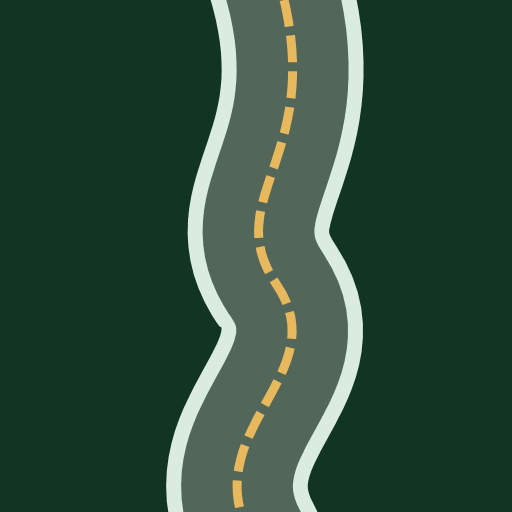
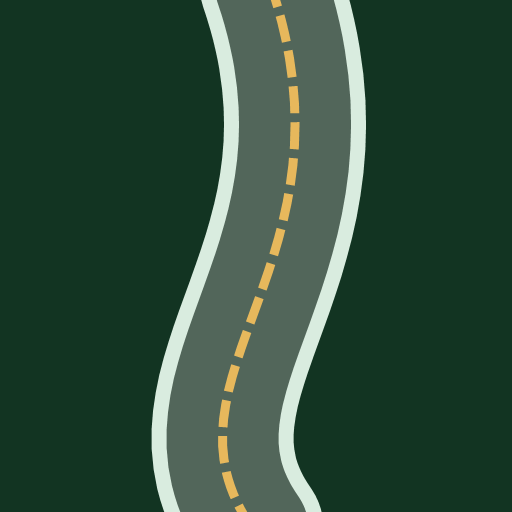
actualizaciones de pwa

Changed region(s): [[0.2812, 0.0, 0.7188, 1.0], [0.6562, 0.0, 0.7188, 0.125]]

diff --git a/public/app.build.js b/public/app.build.js
@@ -14,6 +14,8 @@ window.Header = function Header(props) {
   var setShowMenu = props.setShowMenu;
   var onNavigate = props.onNavigate;
   var onReportar = props.onReportar;
+  var canInstall = props.canInstall;
+  var onInstall = props.onInstall;
 
   // Enlaces del menu. Cada uno tiene un color de hover (colores de Vias Choco).
   var enlaces = [{
@@ -73,7 +75,12 @@ window.Header = function Header(props) {
     }, enlace.texto);
   })), /*#__PURE__*/React.createElement("div", {
     className: "flex items-center gap-2"
-  }, /*#__PURE__*/React.createElement("button", {
+  }, canInstall && /*#__PURE__*/React.createElement("button", {
+    onClick: onInstall,
+    className: "boton-instalar hidden sm:inline-flex"
+  }, /*#__PURE__*/React.createElement("span", {
+    "aria-hidden": "true"
+  }, "↓"), " Instalar"), /*#__PURE__*/React.createElement("button", {
     onClick: onReportar,
     className: "boton-primario hidden sm:inline-flex text-sm"
   }, "+ Reportar"), /*#__PURE__*/React.createElement("button", {
@@ -136,7 +143,15 @@ window.Header = function Header(props) {
       },
       className: "enlace-menu text-left " + enlace.hov
     }, enlace.texto);
-  }), /*#__PURE__*/React.createElement("button", {
+  }), canInstall && /*#__PURE__*/React.createElement("button", {
+    onClick: function () {
+      cerrarMenu();
+      onInstall();
+    },
+    className: "boton-instalar w-full mt-3"
+  }, /*#__PURE__*/React.createElement("span", {
+    "aria-hidden": "true"
+  }, "↓"), " Instalar aplicación"), /*#__PURE__*/React.createElement("button", {
     onClick: function () {
       cerrarMenu();
       onReportar();
@@ -1853,7 +1868,7 @@ function App() {
   var [detalle, setDetalle] = React.useState(null);
   var [servidorOk, setServidorOk] = React.useState(false); // ¿el backend responde?
   var [clima, setClima] = React.useState({}); // clima en vivo de algunas vías
-
+  var [installPrompt, setInstallPrompt] = React.useState(null);
   var vias = window.DATOS.vias;
   var noticias = window.DATOS.noticias;
 
@@ -1867,6 +1882,29 @@ function App() {
       setServidorOk(ok);
     });
   }, []);
+  React.useEffect(function () {
+    function actualizarInstalacion() {
+      setInstallPrompt(window.viasChocoInstallPrompt || null);
+    }
+    function limpiarInstalacion() {
+      window.viasChocoInstallPrompt = null;
+      setInstallPrompt(null);
+    }
+    window.addEventListener("viaschoco:installavailable", actualizarInstalacion);
+    window.addEventListener("viaschoco:installed", limpiarInstalacion);
+    actualizarInstalacion();
+    return function () {
+      window.removeEventListener("viaschoco:installavailable", actualizarInstalacion);
+      window.removeEventListener("viaschoco:installed", limpiarInstalacion);
+    };
+  }, []);
+  async function instalarApp() {
+    if (!installPrompt) return;
+    await installPrompt.prompt();
+    await installPrompt.userChoice;
+    window.viasChocoInstallPrompt = null;
+    setInstallPrompt(null);
+  }
   async function cargarDatos() {
     setReportes(await window.Api.listarReportes());
     setAlertas(await window.Api.listarAlertas());
@@ -1874,7 +1912,7 @@ function App() {
 
   // Traer el clima de las dos vías principales usando OpenWeather
   async function cargarClima() {
-    if (!window.CONFIG.OPENWEATHER_API_KEY) {
+    if (!window.CONFIG || !window.CONFIG.OPENWEATHER_API_KEY) {
       setClima({});
       return;
     }
@@ -2196,7 +2234,9 @@ function App() {
     onNavigate: navegar,
     onReportar: function () {
       setVerReporte(true);
-    }
+    },
+    canInstall: !!installPrompt,
+    onInstall: instalarApp
   }), /*#__PURE__*/React.createElement("main", {
     id: "inicio-seccion",
     className: "max-w-7xl mx-auto px-5 md:px-8 py-14 md:py-16 space-y-24"

diff --git a/public/service-worker.js b/public/service-worker.js
@@ -1,0 +1,74 @@
+const CACHE_NAME = "viaschoco-static-v1";
+const APP_SHELL = [
+  "./",
+  "./index.html",
+  "./manifest.webmanifest",
+  "./estilos/estilos.css",
+  "./vendor/react.development.js",
+  "./vendor/react-dom.development.js",
+  "./vendor/leaflet.js",
+  "./vendor/leaflet.css",
+  "./vendor/turf.min.js",
+  "./js/config.js",
+  "./js/datos.js",
+  "./js/api.js",
+  "./js/pwa.js",
+  "./app.build.js",
+  "./img/logoviaa.png",
+  "./img/pwa-192.png",
+  "./img/pwa-512.png"
+];
+
+self.addEventListener("install", function (event) {
+  event.waitUntil(
+    caches.open(CACHE_NAME)
+      .then(function (cache) { return cache.addAll(APP_SHELL); })
+      .then(function () { return self.skipWaiting(); })
+  );
+});
+
+self.addEventListener("activate", function (event) {
+  event.waitUntil(
+    caches.keys()
+      .then(function (keys) {
+        return Promise.all(keys.filter(function (key) {
+          return key.indexOf("viaschoco-") === 0 && key !== CACHE_NAME;
+        }).map(function (key) { return caches.delete(key); }));
+      })
+      .then(function () { return self.clients.claim(); })
+  );
+});
+
+self.addEventListener("fetch", function (event) {
+  var request = event.request;
+  var url = new URL(request.url);
+  if (request.method !== "GET" || url.origin !== self.location.origin || url.pathname.indexOf("/api/") === 0) return;
+
+  if (request.mode === "navigate") {
+    event.respondWith(
+      fetch(request)
+        .then(function (response) {
+          if (response.ok) {
+            var copy = response.clone();
+            caches.open(CACHE_NAME).then(function (cache) { cache.put(request, copy); });
+          }
+          return response;
+        })
+        .catch(function () { return caches.match(request).then(function (cached) { return cached || caches.match("./index.html"); }); })
+    );
+    return;
+  }
+
+  event.respondWith(
+    caches.match(request).then(function (cached) {
+      if (cached) return cached;
+      return fetch(request).then(function (response) {
+        if (response.ok) {
+          var copy = response.clone();
+          caches.open(CACHE_NAME).then(function (cache) { cache.put(request, copy); });
+        }
+        return response;
+      });
+    })
+  );
+});

diff --git a/public/js/main.js b/public/js/main.js
@@ -23,6 +23,7 @@ function App() {
   var [detalle, setDetalle] = React.useState(null);
   var [servidorOk, setServidorOk] = React.useState(false); // ¿el backend responde?
   var [clima, setClima] = React.useState({}); // clima en vivo de algunas vías
+  var [installPrompt, setInstallPrompt] = React.useState(null);
 
   var vias = window.DATOS.vias;
   var noticias = window.DATOS.noticias;
@@ -35,6 +36,26 @@ function App() {
     // Revisar si el backend está encendido (para el indicador del panel)
     window.Api.hayServidor().then(function (ok) { setServidorOk(ok); });
   }, []);
+
+  React.useEffect(function () {
+    function actualizarInstalacion() { setInstallPrompt(window.viasChocoInstallPrompt || null); }
+    function limpiarInstalacion() { window.viasChocoInstallPrompt = null; setInstallPrompt(null); }
+    window.addEventListener("viaschoco:installavailable", actualizarInstalacion);
+    window.addEventListener("viaschoco:installed", limpiarInstalacion);
+    actualizarInstalacion();
+    return function () {
+      window.removeEventListener("viaschoco:installavailable", actualizarInstalacion);
+      window.removeEventListener("viaschoco:installed", limpiarInstalacion);
+    };
+  }, []);
+
+  async function instalarApp() {
+    if (!installPrompt) return;
+    await installPrompt.prompt();
+    await installPrompt.userChoice;
+    window.viasChocoInstallPrompt = null;
+    setInstallPrompt(null);
+  }
 
   async function cargarDatos() {
     setReportes(await window.Api.listarReportes());
@@ -312,6 +333,8 @@ function App() {
         setShowMenu={setVerMenu}
         onNavigate={navegar}
         onReportar={function () { setVerReporte(true); }}
+        canInstall={!!installPrompt}
+        onInstall={instalarApp}
       />
 
       <main id="inicio-seccion" className="max-w-7xl mx-auto px-5 md:px-8 py-14 md:py-16 space-y-24">

diff --git a/public/js/componentes/Header.js b/public/js/componentes/Header.js
@@ -9,6 +9,8 @@ window.Header = function Header(props) {
   var setShowMenu = props.setShowMenu;
   var onNavigate = props.onNavigate;
   var onReportar = props.onReportar;
+  var canInstall = props.canInstall;
+  var onInstall = props.onInstall;
 
   // Enlaces del menu. Cada uno tiene un color de hover (colores de Vias Choco).
   var enlaces = [
@@ -46,6 +48,7 @@ window.Header = function Header(props) {
 
         {/* Derecha: reportar (compu) + hamburguesa (celular) */}
         <div className="flex items-center gap-2">
+          {canInstall && <button onClick={onInstall} className="boton-instalar hidden sm:inline-flex"><span aria-hidden="true">↓</span> Instalar</button>}
           <button onClick={onReportar} className="boton-primario hidden sm:inline-flex text-sm">+ Reportar</button>
           {/* Botón hamburguesa (solo celular) */}
           <button onClick={function () { setShowMenu(true); }} className="hamburguesa lg:hidden" aria-label="Abrir menú">
@@ -78,6 +81,7 @@ window.Header = function Header(props) {
               </button>
             );
           })}
+          {canInstall && <button onClick={function () { cerrarMenu(); onInstall(); }} className="boton-instalar w-full mt-3"><span aria-hidden="true">↓</span> Instalar aplicación</button>}
           <button onClick={function () { cerrarMenu(); onReportar(); }} className="boton-primario w-full mt-3">+ Reportar</button>
         </nav>
       </div>

diff --git a/public/index.html b/public/index.html
@@ -5,10 +5,15 @@
   <meta name="viewport" content="width=device-width, initial-scale=1.0" />
   <meta name="theme-color" content="#123422" />
   <meta name="description" content="Vías del Chocó: plataforma colaborativa para reportes del estado de las carreteras en tiempo real." />
+  <meta name="mobile-web-app-capable" content="yes" />
+  <meta name="apple-mobile-web-app-capable" content="yes" />
+  <meta name="apple-mobile-web-app-status-bar-style" content="black-translucent" />
   <title>Vías del Chocó · Información vial en tiempo real</title>
 
   <!-- Icono -->
   <link rel="icon" type="image/png" href="img/logoviaa.png" />
+  <link rel="apple-touch-icon" href="img/pwa-192.png" />
+  <link rel="manifest" href="manifest.webmanifest" />
 
   <!-- Fuentes de Google -->
   <link rel="preconnect" href="https://fonts.googleapis.com" />
@@ -76,6 +81,7 @@
   <script src="js/config.js"></script>
   <script src="js/datos.js"></script>
   <script src="js/api.js"></script>
+  <script src="js/pwa.js"></script>
 
   <!--
     Toda la aplicacion (componentes, paginas y main) va en app.build.js,

diff --git a/public/estilos/estilos.css b/public/estilos/estilos.css
@@ -99,6 +99,13 @@ a { text-decoration: none; color: var(--selva-600); }
 .boton-secundario:hover { transform: translateY(-2px); box-shadow: var(--sombra-sm); }
 .boton-fantasma { color: var(--texto); background: transparent; }
 .boton-fantasma:hover { background: var(--arena-100); }
+.boton-instalar {
+  display: inline-flex; align-items: center; justify-content: center; gap: 0.45rem;
+  padding: 0.6rem 0.9rem; border: 1px solid var(--borde-fuerte); border-radius: 9999px;
+  color: var(--selva-800); background: var(--superficie); font-size: 0.875rem; font-weight: 700;
+  cursor: pointer; transition: background 0.2s ease, border-color 0.2s ease;
+}
+.boton-instalar:hover { background: var(--arena-50); border-color: var(--selva-400); }
 
 /* ---------- 5. Tarjetas ---------- */
 .tarjeta {

diff --git a/public/js/pwa.js b/public/js/pwa.js
@@ -1,0 +1,22 @@
+(function () {
+  window.viasChocoInstallPrompt = null;
+
+  if ("serviceWorker" in navigator) {
+    window.addEventListener("load", function () {
+      navigator.serviceWorker.register("./service-worker.js").catch(function (error) {
+        console.error("No se pudo registrar la aplicación offline:", error);
+      });
+    });
+  }
+
+  window.addEventListener("beforeinstallprompt", function (event) {
+    event.preventDefault();
+    window.viasChocoInstallPrompt = event;
+    window.dispatchEvent(new Event("viaschoco:installavailable"));
+  });
+
+  window.addEventListener("appinstalled", function () {
+    window.viasChocoInstallPrompt = null;
+    window.dispatchEvent(new Event("viaschoco:installed"));
+  });
+})();

diff --git a/preview.js b/preview.js
@@ -11,6 +11,7 @@ const mimeTypes = {
   '.jsx': 'application/javascript; charset=UTF-8',
   '.css': 'text/css; charset=UTF-8',
   '.json': 'application/json; charset=UTF-8',
+  '.webmanifest': 'application/manifest+json; charset=UTF-8',
   '.png': 'image/png',
   '.jpg': 'image/jpeg',
   '.jpeg': 'image/jpeg',

diff --git a/README.md b/README.md
@@ -57,6 +57,18 @@ Luego abre en el navegador: **http://localhost:4173**
 > ahora la página carga rápido porque el código ya viene compilado en
 > `app.build.js` (no se compila en el navegador).
 
+### Instalar en Android como aplicación
+
+La web es instalable desde Chrome cuando está publicada por HTTPS. En Android,
+abre la dirección de Vías del Chocó en Chrome y toca **Instalar** (o **⋮ →
+Instalar aplicación**). Los archivos propios de la aplicación quedan disponibles
+sin conexión; los reportes del servidor, el clima y otros servicios externos sí
+necesitan internet.
+
+Esto instala la PWA desde el navegador, pero no la publica en Google Play. Para
+aparecer en Play Store hay que empaquetarla como Trusted Web Activity y completar
+el proceso de publicación de Google Play Console.
+
 ### ✏ Si editas el código del frontend
 
 Los archivos de `js/componentes` y `js/paginas` están escritos con JSX (fácil
